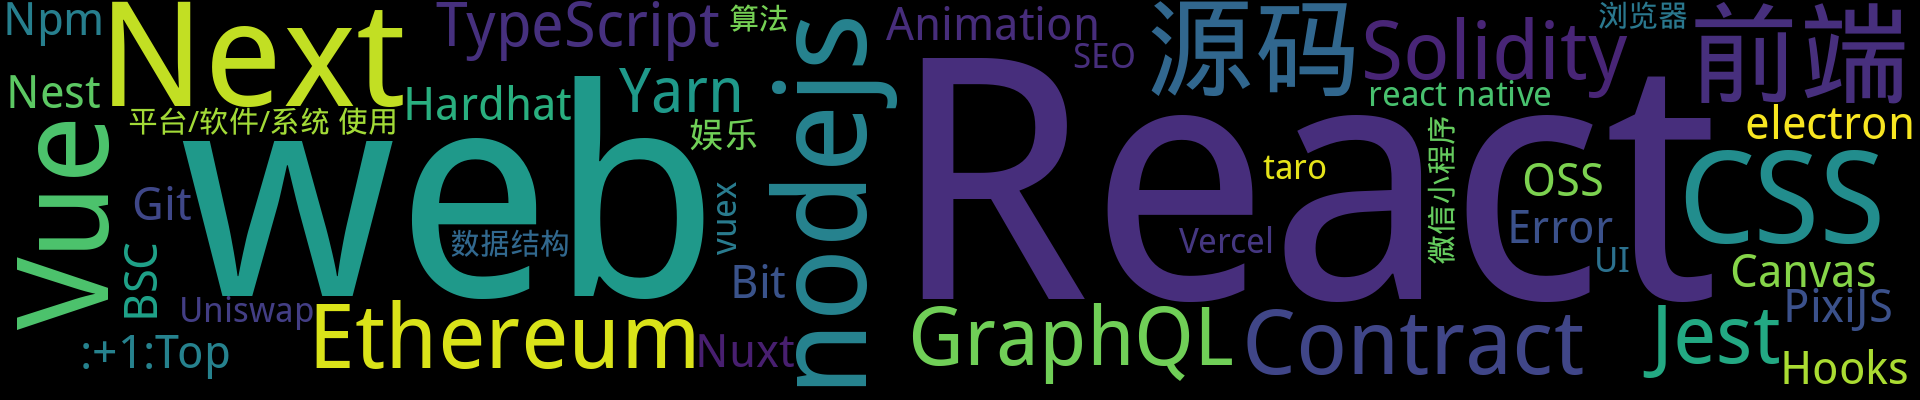
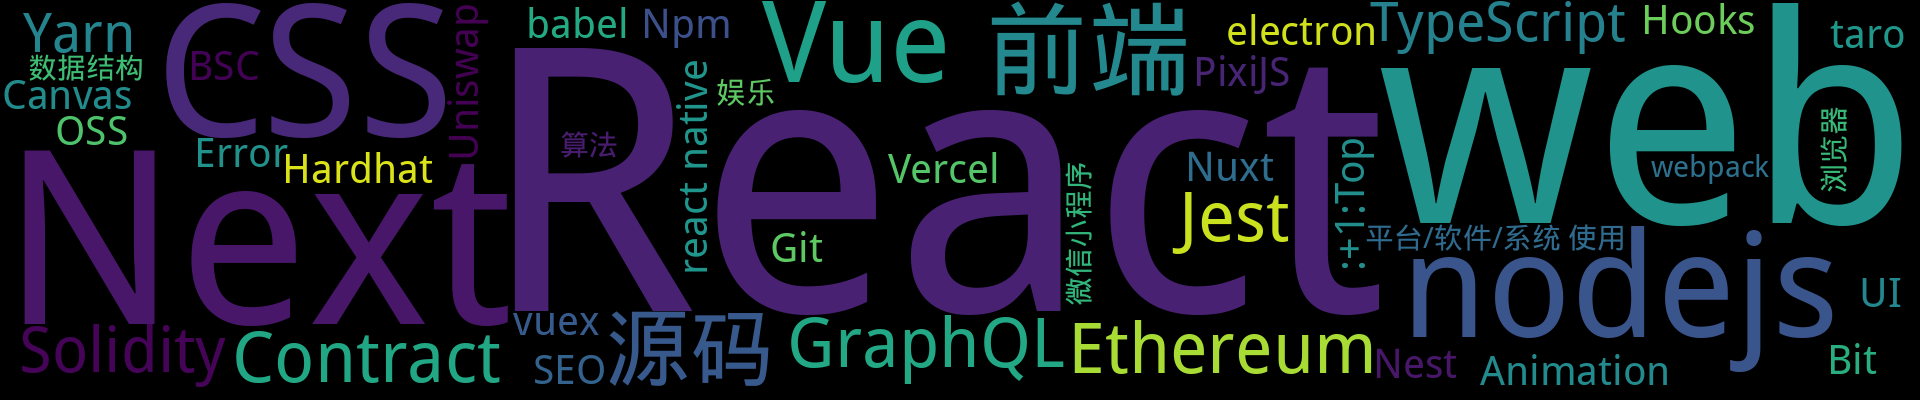
Update from Github Action

diff --git a/README.md b/README.md
@@ -1,9 +1,9 @@
 
 
 <p align='center'>
-    <img src="https://badgen.net/badge/labels/55"/>
+    <img src="https://badgen.net/badge/labels/57"/>
     <img src="https://badgen.net/github/issues/xiaotiandada/ghiblog"/>
-    <img src="https://badgen.net/badge/last-commit/2022-06-24 03:31:10"/>
+    <img src="https://badgen.net/badge/last-commit/2022-06-25 09:52:48"/>
     <img src="https://badgen.net/github/forks/xiaotiandada/ghiblog"/>
     <img src="https://badgen.net/github/stars/xiaotiandada/ghiblog"/>
     <img src="https://badgen.net/github/watchers/xiaotiandada/ghiblog"/>
@@ -20,6 +20,20 @@
 ## Top :thumbsup: 
 - [React](https://github.com/xiaotiandada/blog/issues/96)  <sup>0 :speech_balloon:</sup>  	 
 ## New :new: 
+
+#### [Webpack](https://github.com/xiaotiandada/blog/issues/115) <sup>0 :speech_balloon:</sup> 	 2022-06-25 09:52:24
+
+:label: : [webpack](https://github.com/xiaotiandada/ghiblog/labels/webpack), [babel](https://github.com/xiaotiandada/ghiblog/labels/babel)
+
+Babel 7 不需要 ts-loader。从 Babel 7 开始，这ts-loader是不必要的，因为 Babel 7 支持 TypeScript
+
+- https://github.com/Microsoft/TypeScript-Babel-Starter
+- https://stac
+
+[more](https://github.com/xiaotiandada/blog/issues/115)
+
+---
+
 
 #### [Jest](https://github.com/xiaotiandada/blog/issues/114) <sup>0 :speech_balloon:</sup> 	 2022-06-24 03:27:18
 
@@ -73,20 +87,6 @@
 ---
 
 
-#### [FileReader API](https://github.com/xiaotiandada/blog/issues/110) <sup>0 :speech_balloon:</sup> 	 2022-06-04 16:58:54
-
-:label: : 
-
-- https://developer.mozilla.org/zh-CN/docs/Web/API/FileReader
-- https://dev.to/j471n/preview-file-before-uploading-in-react-27kn
-
-
-
-[more](https://github.com/xiaotiandada/blog/issues/110)
-
----
-
-
 ## 分类  :card_file_box: 
 
 <details open="open">
@@ -115,6 +115,14 @@
 <summary>Animation	<sup>1:newspaper:</sup></summary>
 
 - [Animation case](https://github.com/xiaotiandada/blog/issues/104)  <sup>0 :speech_balloon:</sup>  	 
+
+
+</details>
+
+<details>
+<summary>babel	<sup>1:newspaper:</sup></summary>
+
+- [Webpack](https://github.com/xiaotiandada/blog/issues/115)  <sup>0 :speech_balloon:</sup>  	 
 
 
 </details>
@@ -452,6 +460,14 @@
 - [Cross-Origin Resource Policy (CORP)](https://github.com/xiaotiandada/blog/issues/111)  <sup>0 :speech_balloon:</sup>  	 
 - [Keyboard API](https://github.com/xiaotiandada/blog/issues/98)  <sup>0 :speech_balloon:</sup>  	 
 - [Fullscreen API](https://github.com/xiaotiandada/blog/issues/97)  <sup>0 :speech_balloon:</sup>  	 
+
+
+</details>
+
+<details>
+<summary>webpack	<sup>1:newspaper:</sup></summary>
+
+- [Webpack](https://github.com/xiaotiandada/blog/issues/115)  <sup>0 :speech_balloon:</sup>  	 
 
 
 </details>
